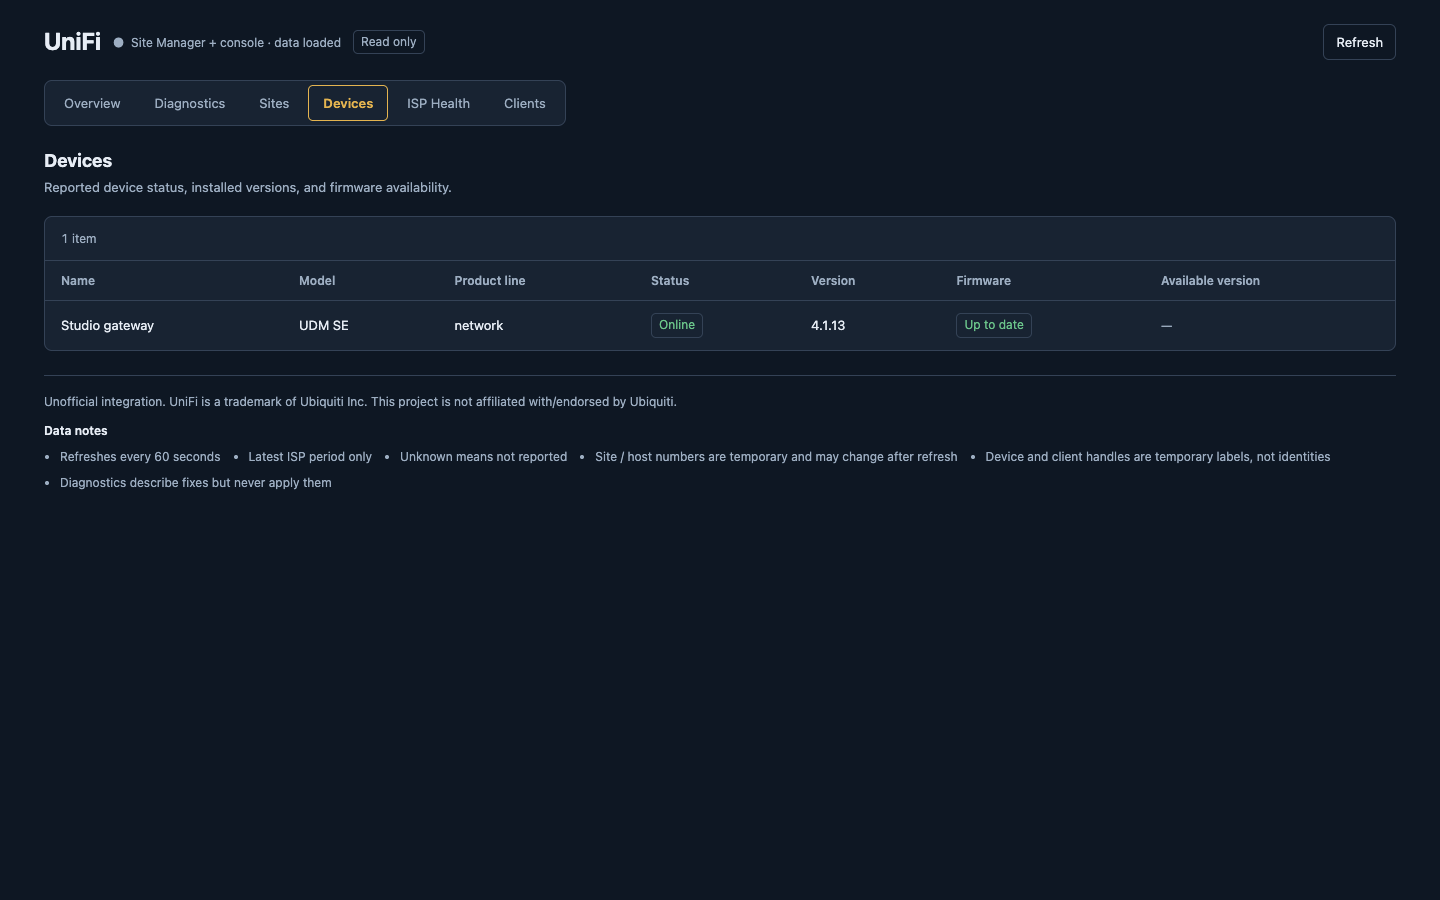
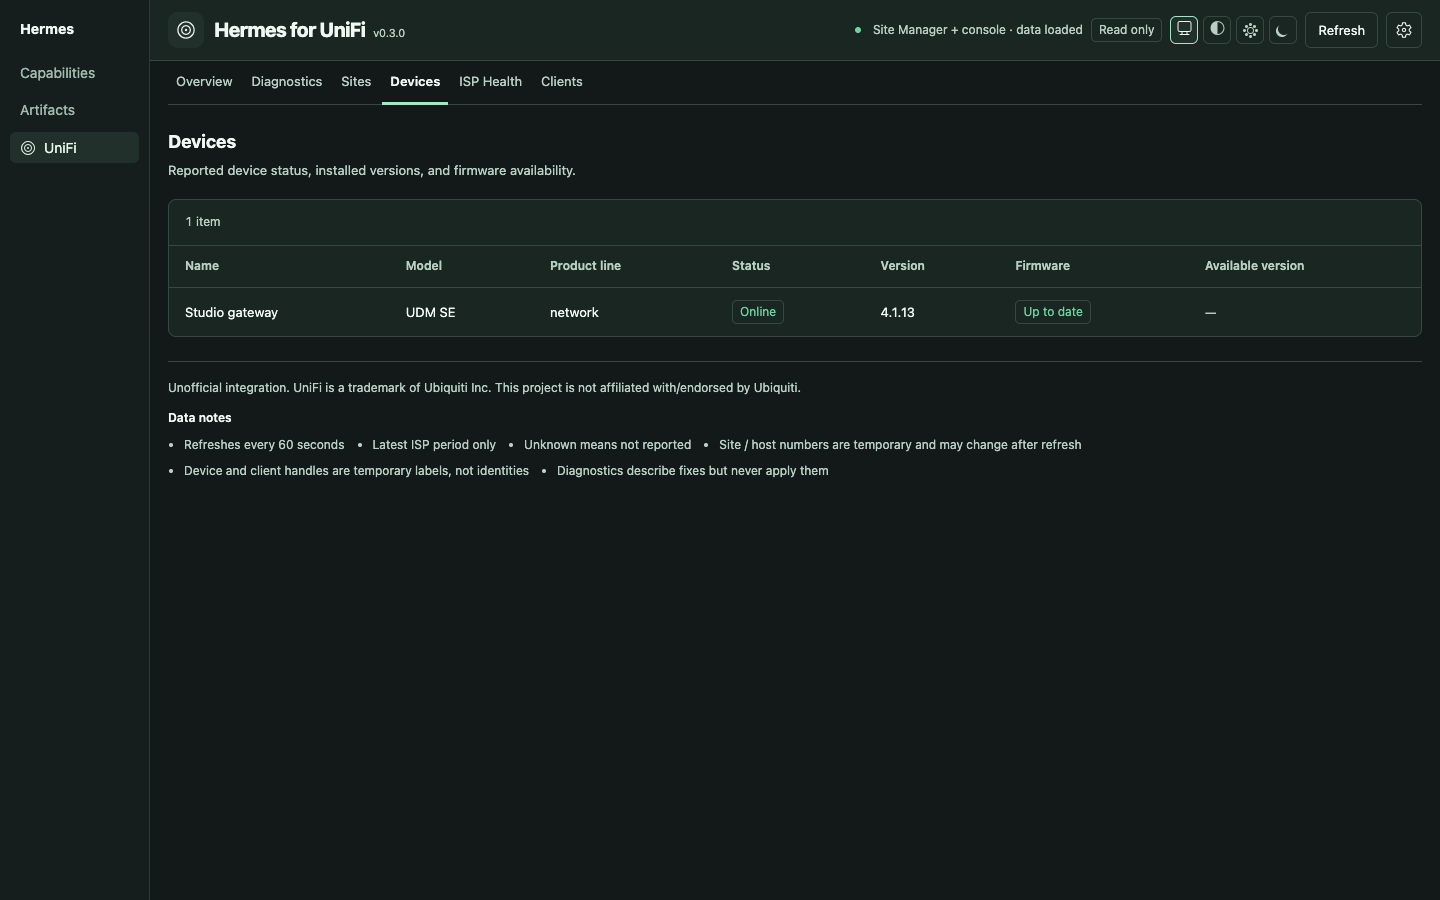
docs: refresh v0.3.0 Desktop screenshots

diff --git a/README.md b/README.md
@@ -4,7 +4,7 @@ See what's online, who's connected, and why a port or access point might need at
 
 [Install in Hermes](hermes://plugin/install?repo=Anunnaki-Astronaut/hermes-unifi&enable=1) · [Setup guide](docs/INSTALL.md)
 
-![Hermes for UniFi dashboard with sample data](docs/screenshots/social-preview.png)
+![Hermes for UniFi v0.3.0 Overview with sample data](docs/screenshots/overview.png)
 
 ## What it shows
 
@@ -43,7 +43,7 @@ Undefined units remain unlabeled rather than guessed: latency, downtime, uptime,
 
 ## Screenshots
 
-All screenshots use made-up data and do not show a real network. They are rendered from deterministic HTML previews of the Desktop component.
+These captures show the v0.3.0 Desktop plugin running against sample API responses in an offline preview. They use made-up data and do not show a real network.
 
 | Overview | Diagnostics | Sites |
 | --- | --- | --- |
@@ -53,7 +53,7 @@ All screenshots use made-up data and do not show a real network. They are render
 | --- | --- | --- |
 | ![Devices](docs/screenshots/devices.png) | ![ISP Health](docs/screenshots/isp.png) | ![Clients](docs/screenshots/clients.png) |
 
-The six sample views come from the checked-in HTML previews. Diagnostics is 1440×1200 to fit the full report; the other five are 1440×900. To regenerate the samples, run `python scripts/capture_screenshots.py --chrome /path/to/chrome`.
+Diagnostics is 1440×1200 to fit the full report; the other five dashboard views are 1440×900. The checked-in HTML previews are separate test fixtures and use simplified window controls.
 
 ## Requirements
 
